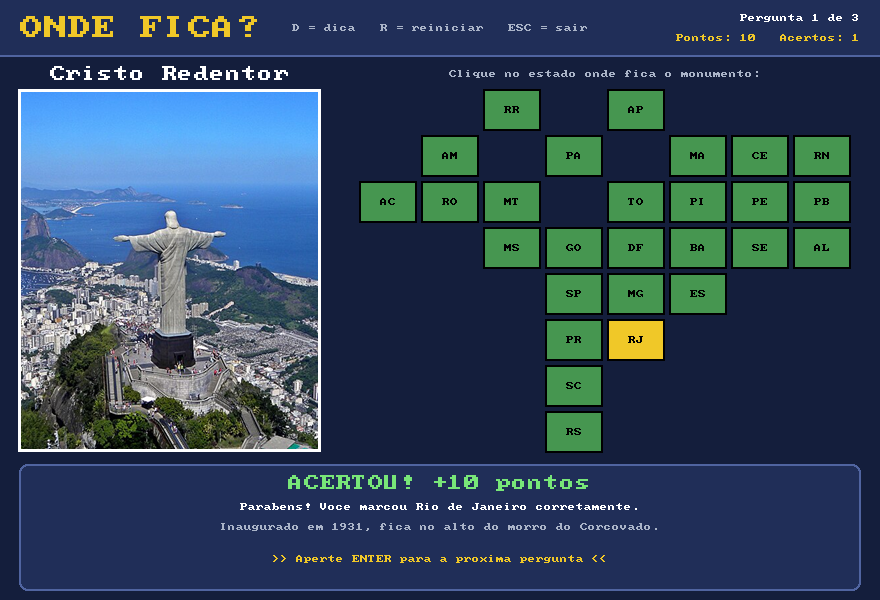
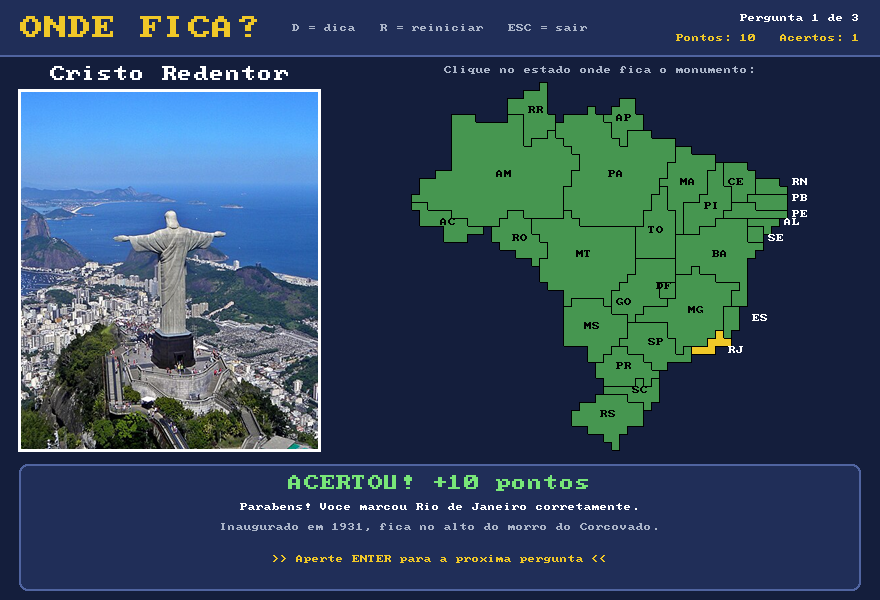
Mapa no formato do Brasil e ajustes na explicacao

Changed region(s): [[0.3989, 0.09, 0.9818, 0.78]]

diff --git a/main.c b/main.c
@@ -10,11 +10,98 @@
 #define TOTAL_PERGUNTAS 3   // quantidade de monumentos (perguntas) do jogo
 #define PONTOS_POR_ACERTO 10
 
-// Mapa
-#define MAPA_X 360
-#define MAPA_Y 90
-#define BLOCO_L 56
-#define BLOCO_A 40
+// ===== MAPA DO BRASIL =====
+// O mapa e uma matriz de letras. Cada letra e um estado e cada letra
+// vira um quadradinho de CELULA x CELULA pixels na tela. O ponto '.' e o mar.
+// A letra de cada estado esta no vetor LETRAS, na mesma posicao do vetor siglas:
+//   A=RR  B=AP  C=AM  D=PA  E=MA  F=CE  G=RN  H=AC  I=RO  J=MT  K=TO  L=PI  M=PE  N=PB
+//   O=MS  P=GO  Q=DF  R=BA  S=SE  T=AL  U=SP  V=MG  W=ES  X=PR  Y=RJ  Z=SC  #=RS
+#define MAPA_LINHAS 46
+#define MAPA_COLUNAS 47
+#define CELULA 8      // tamanho de cada quadradinho em pixels
+#define MAPA_X 412    // canto esquerdo do mapa na tela
+#define MAPA_Y 82     // topo do mapa na tela
+
+char LETRAS[TOTAL + 1] = "ABCDEFGHIJKLMNOPQRSTUVWXYZ#";
+
+char *mapa[MAPA_LINHAS] = {
+    "................A..............................",
+    "..............AAA..............................",
+    "............AAAAA.........BB...................",
+    "............AAAAA.....D..BBB...................",
+    ".....CCC....CCAAAA.DDDDDBBBBB..................",
+    ".....CCCCCCCCCAAAADDDDDDDBBBB..................",
+    ".....CCCCCCCCCAAACDDDDDDDBBDDD.................",
+    ".....CCCCCCCCCACCCCDDDDDDDBDDDDDD..............",
+    ".....CCCCCCCCCCCCCCCDDDDDDDDDDDDDEE............",
+    ".....CCCCCCCCCCCCCCCCDDDDDDDDDDDDEEEEE.........",
+    ".....CCCCCCCCCCCCCCCCDDDDDDDDDDDEEEEEELFFF.....",
+    "...CCCCCCCCCCCCCCCCCDDDDDDDDDDDDEEEEELLFFFF....",
+    ".CCCCCCCCCCCCCCCCCCCDDDDDDDDDDDEEEEEELLFFFFGGG.",
+    ".CCCCCCCCCCCCCCCCCCDDDDDDDDDDDDKEEEEELLLFFFGGGG",
+    "CCCCCCCCCCCCCCCCCCCDDDDDDDDDDDKKEEEELLLLFFNNNNN",
+    "HHCCCCCCCCCCCCCCCCCDDDDDDDDDDDKKEELLLLLLMMMNNNN",
+    ".HHHHCCCCCCCIICCCCCJDDDDDDDDDKKKKELLLLLMMMMMMMM",
+    ".HHHHHHCCCCIIIIJJJJJJDDDDDDDDKKKKELLLLRRRRTTTT.",
+    "....HHHHH.IIIIIJJJJJJJJJJJJJKKKKKELLRRRRRRSST..",
+    "....HHH...IIIIIIJJJJJJJJJJJJKKKKKRRRRRRRRRSS...",
+    "...........IIIIIIJJJJJJJJJJJKKKKKRRRRRRRRRRR...",
+    ".............IIIIJJJJJJJJJJJKKKKKRRRRRRRRRR....",
+    "...............IJJJJJJJJJJJJPPPPPRRRRRRRRR.....",
+    "................JJJJJJJJJJJJPPPPPRRVRRRRRR.....",
+    "................JJJJJJJJJJJPPPPPPVVVVVRRRR.....",
+    ".................JJJJJJJJJPPPPPQQVVVVVVVVR.....",
+    "...................JJJJJJPPPPPPQQVVVVVVVRR.....",
+    "...................JOOOOJPPPPPPPVVVVVVVVRR.....",
+    "...................OOOOOOPPPPVVVVVVVVVVWW......",
+    "...................OOOOOOOOPVVVVVVVVVVVWW......",
+    "...................OOOOOOOOUUUUUVVVVVVVWW......",
+    "...................OOOOOOOOUUUUUVVVVVVYW.......",
+    "...................OOOOOOOUUUUUUUVVVVYYY.......",
+    "......................OOOXXUUUUUUVUYYY.........",
+    "......................OOXXXXXUUUUUU............",
+    ".......................XXXXXXXUU...............",
+    ".......................XXXXXXXX................",
+    "........................XXXXZXZ................",
+    "........................ZZZZZZZ................",
+    ".......................####ZZZZ................",
+    ".....................########Z.................",
+    "....................#########..................",
+    "....................#########..................",
+    "......................#####....................",
+    "........................##.....................",
+    ".........................#.....................",
+};
+
+// Recebe uma letra do mapa e devolve a posicao do estado (0 a 26).
+// Se for mar ('.'), devolve -1.
+int estado_da_letra(char letra)
+{
+    for (int i = 0; i < TOTAL; i++) {
+        if (LETRAS[i] == letra) {
+            return i;
+        }
+    }
+    return -1;
+}
+
+// Recebe uma posicao da tela (x, y), por exemplo onde esta o mouse,
+// e devolve qual estado esta ali. Devolve -1 se for mar ou fora do mapa.
+int estado_na_tela(int x, int y)
+{
+    if (x < MAPA_X || y < MAPA_Y) {
+        return -1; // a esquerda ou acima do mapa
+    }
+
+    // divide pelo tamanho do quadradinho para achar a coluna e a linha da matriz
+    int coluna = (x - MAPA_X) / CELULA;
+    int linha = (y - MAPA_Y) / CELULA;
+
+    if (coluna >= MAPA_COLUNAS || linha >= MAPA_LINHAS) {
+        return -1; // a direita ou abaixo do mapa
+    }
+    return estado_da_letra(mapa[linha][coluna]);
+}
 
 // Escreve um texto MAIOR que o normal, centralizado em x.
 // A fonte embutida do Allegro e bem pequena (8 pixels), entao
@@ -63,18 +150,19 @@ int main()
         "Santa Catarina", "Rio Grande do Sul"
     };
 
-    // coluna e linha de cada estado no mapa (mais ou menos onde fica no Brasil)
-    int coluna[TOTAL] = {
-        2, 4, 1, 3, 5, 6, 7,
-        0, 1, 2, 4, 5, 6, 7,
-        2, 3, 4, 5, 6, 7,
-        3, 4, 5, 3, 4, 3, 3
+    // linha e coluna da matriz onde a sigla de cada estado e escrita.
+    // Nos estados pequenos do litoral a sigla fica no mar, ao lado do estado.
+    int rotulo_linha[TOTAL] = {
+        3, 4, 11, 11, 12, 12, 12,
+        17, 19, 21, 18, 15, 16, 14,
+        30, 27, 25, 21, 19, 17,
+        32, 28, 29, 35, 33, 38, 41
     };
-    int linha[TOTAL] = {
-        0, 0, 1, 1, 1, 1, 1,
-        2, 2, 2, 2, 2, 2, 2,
-        3, 3, 3, 3, 3, 3,
-        4, 4, 4, 5, 5, 6, 7
+    int rotulo_coluna[TOTAL] = {
+        15, 26, 11, 25, 34, 40, 48,
+        4, 13, 21, 30, 37, 48, 48,
+        22, 26, 31, 38, 45, 47,
+        30, 35, 43, 26, 40, 28, 24
     };
 
     // ===== PERGUNTAS =====
@@ -224,30 +312,62 @@ int main()
             al_draw_rectangle(20, 90, 320, 450, branco, 3);
 
             // mapa
-            al_draw_text(fonte, cinza, 605, 70, ALLEGRO_ALIGN_CENTRE,
+            al_draw_text(fonte, cinza, 600, 66, ALLEGRO_ALIGN_CENTRE,
                 "Clique no estado onde fica o monumento:");
+            // qual estado esta embaixo do mouse agora (-1 = nenhum)
+            int estado_mouse = estado_na_tela(mouse_x, mouse_y);
+
+            // percorre a matriz linha por linha, coluna por coluna
+            for (int lin = 0; lin < MAPA_LINHAS; lin++) {
+                for (int col = 0; col < MAPA_COLUNAS; col++) {
+                    char letra = mapa[lin][col];
+                    if (letra == '.') {
+                        continue; // e mar: nao desenha nada
+                    }
+
+                    int i = estado_da_letra(letra);
+                    int x = MAPA_X + col * CELULA;
+                    int y = MAPA_Y + lin * CELULA;
+
+                    ALLEGRO_COLOR cor = al_map_rgb(70, 150, 80); // verde normal
+                    if (escolhido != -1 && i == respostas[pergunta]) {
+                        cor = amarelo;                           // resposta certa
+                    }
+                    else if (i == escolhido) {
+                        cor = al_map_rgb(210, 60, 50);           // escolha errada
+                    }
+                    else if (escolhido == -1 && i == estado_mouse) {
+                        cor = al_map_rgb(130, 210, 140);         // verde claro (mouse em cima)
+                    }
+                    al_draw_filled_rectangle(x, y, x + CELULA, y + CELULA, cor);
+
+                    // fronteira: desenha uma linha escura onde o vizinho
+                    // e outro estado ou o mar (ou onde a matriz acaba)
+                    if (lin == 0 || mapa[lin - 1][col] != letra) {
+                        al_draw_line(x, y, x + CELULA, y, preto, 1);                     // em cima
+                    }
+                    if (lin == MAPA_LINHAS - 1 || mapa[lin + 1][col] != letra) {
+                        al_draw_line(x, y + CELULA, x + CELULA, y + CELULA, preto, 1);   // embaixo
+                    }
+                    if (col == 0 || mapa[lin][col - 1] != letra) {
+                        al_draw_line(x, y, x, y + CELULA, preto, 1);                     // esquerda
+                    }
+                    if (col == MAPA_COLUNAS - 1 || mapa[lin][col + 1] != letra) {
+                        al_draw_line(x + CELULA, y, x + CELULA, y + CELULA, preto, 1);   // direita
+                    }
+                }
+            }
+
+            // escreve a sigla de cada estado
             for (int i = 0; i < TOTAL; i++) {
-                int x = MAPA_X + coluna[i] * (BLOCO_L + 6);
-                int y = MAPA_Y + linha[i] * (BLOCO_A + 6);
-
-                // o mouse esta em cima deste bloco?
-                int mouse_em_cima = mouse_x >= x && mouse_x <= x + BLOCO_L &&
-                                    mouse_y >= y && mouse_y <= y + BLOCO_A;
-
-                ALLEGRO_COLOR cor = al_map_rgb(70, 150, 80); // verde normal
-                if (escolhido != -1 && i == respostas[pergunta]) {
-                    cor = amarelo;                           // resposta certa
+                int x = MAPA_X + rotulo_coluna[i] * CELULA + CELULA / 2;
+                int y = MAPA_Y + rotulo_linha[i] * CELULA;
+                // sigla em cima do estado = preta; sigla no mar = branca
+                ALLEGRO_COLOR cor_sigla = preto;
+                if (rotulo_coluna[i] >= MAPA_COLUNAS || mapa[rotulo_linha[i]][rotulo_coluna[i]] == '.') {
+                    cor_sigla = branco;
                 }
-                else if (i == escolhido) {
-                    cor = al_map_rgb(210, 60, 50);           // escolha errada
-                }
-                else if (escolhido == -1 && mouse_em_cima) {
-                    cor = al_map_rgb(130, 210, 140);         // verde claro (mouse em cima)
-                }
-
-                al_draw_filled_rectangle(x, y, x + BLOCO_L, y + BLOCO_A, cor);
-                al_draw_rectangle(x, y, x + BLOCO_L, y + BLOCO_A, preto, 2);
-                al_draw_text(fonte, preto, x + BLOCO_L / 2, y + BLOCO_A / 2 - 4, ALLEGRO_ALIGN_CENTRE, siglas[i]);
+                al_draw_text(fonte, cor_sigla, x, y, ALLEGRO_ALIGN_CENTRE, siglas[i]);
             }
 
             // painel de mensagens embaixo
@@ -334,20 +454,13 @@ int main()
             }
         }
         else if (evento.type == ALLEGRO_EVENT_MOUSE_AXES) {
-            // o mouse se mexeu: guarda a posicao para pintar o bloco de baixo dele
+            // o mouse se mexeu: guarda a posicao para pintar o estado embaixo dele
             mouse_x = evento.mouse.x;
             mouse_y = evento.mouse.y;
         }
         else if (evento.type == ALLEGRO_EVENT_MOUSE_BUTTON_DOWN && escolhido == -1 && !fim_de_jogo) {
-            // ve em qual bloco o mouse clicou
-            for (int i = 0; i < TOTAL; i++) {
-                int x = MAPA_X + coluna[i] * (BLOCO_L + 6);
-                int y = MAPA_Y + linha[i] * (BLOCO_A + 6);
-                if (evento.mouse.x >= x && evento.mouse.x <= x + BLOCO_L &&
-                    evento.mouse.y >= y && evento.mouse.y <= y + BLOCO_A) {
-                    escolhido = i;
-                }
-            }
+            // ve em qual estado o mouse clicou (-1 se clicou no mar ou fora do mapa)
+            escolhido = estado_na_tela(evento.mouse.x, evento.mouse.y);
 
             // se clicou em um estado, confere a resposta e soma os pontos
             if (escolhido != -1 && escolhido == respostas[pergunta]) {

diff --git a/EXPLICACAO.md b/EXPLICACAO.md
@@ -24,17 +24,19 @@ O `main.c` está dividido em blocos, na ordem em que aparecem:
 | Parte | O que faz |
 |---|---|
 | `#include` | Traz as bibliotecas: `stdio.h` (para `printf` e `snprintf`) e os módulos do Allegro (janela, fonte, desenho de formas e imagens). |
-| `#define` | Cria constantes: tamanho da janela, número de estados (`TOTAL`), número de perguntas (`TOTAL_PERGUNTAS`), pontos por acerto e o tamanho dos blocos do mapa. Se quiser mudar um valor, muda só aqui. |
+| `#define` | Cria constantes: tamanho da janela, número de estados (`TOTAL`), número de perguntas (`TOTAL_PERGUNTAS`), pontos por acerto, o tamanho da matriz do mapa (`MAPA_LINHAS`, `MAPA_COLUNAS`), o tamanho de cada quadradinho (`CELULA`) e a posição do mapa na tela (`MAPA_X`, `MAPA_Y`). Se quiser mudar um valor, muda só aqui. |
+| Mapa (`mapa` e `LETRAS`) | O mapa do Brasil escrito como uma matriz de letras. Cada letra é um estado e o `.` é o mar. `LETRAS` diz qual letra é de qual estado. |
+| Funções `estado_da_letra` e `estado_na_tela` | A primeira transforma uma letra do mapa na posição do estado (0 a 26). A segunda recebe um ponto da tela (por exemplo, onde o mouse está) e diz qual estado está ali. |
 | Função `escrever_grande` | Desenha um texto maior que o normal. A fonte do Allegro é pequena (8 pixels), então a função "estica" o desenho (escala 2, 3 ou 4) e depois volta ao tamanho normal. É usada no título, no nome do monumento e na tela final. |
 | Início do `main` | Liga o Allegro (`al_init`), o teclado, o mouse e os addons. Cria a janela, a fila de eventos e a fonte. |
-| Vetores do mapa | `siglas`, `nomes`, `coluna` e `linha`: guardam a sigla, o nome e a posição de cada um dos 27 blocos do mapa. |
+| Vetores dos estados | `siglas` e `nomes` guardam a sigla e o nome dos 27 estados. `rotulo_linha` e `rotulo_coluna` dizem onde escrever a sigla de cada estado no mapa. |
 | `PERGUNTAS` | Vetores com os dados de cada pergunta: nome do monumento, arquivo da foto, resposta certa, dica e curiosidade. |
 | Carregar fotos | Um laço `for` carrega a foto de cada monumento. Se a foto não existir, o jogo avisa no console e continua. |
 | `VARIAVEIS DO JOGO` | Guardam o estado do jogo: pergunta atual, pontos, acertos, estado escolhido, dica, tela final e posição do mouse. |
 | `while (rodando)` | O laço principal. Cada volta desenha a tela e espera uma ação do jogador. |
 | `CORES USADAS NO JOGO` | Cria as cores (branco, amarelo, verde, vermelho etc.) com `al_map_rgb(vermelho, verde, azul)`. |
 | `TELA FINAL` | Desenhada quando `fim_de_jogo` vale 1: pontuação, acertos, resumo de cada pergunta e mensagem final. |
-| `TELA DA PERGUNTA` | Barra de cima com placar, foto do monumento, mapa e painel de mensagens embaixo. |
+| `TELA DA PERGUNTA` | Barra de cima com placar, foto do monumento, mapa e painel de mensagens embaixo. O mapa é desenhado com dois `for`, um dentro do outro, que passam por todas as posições da matriz. |
 | Tratamento de eventos | Depois de desenhar, `al_wait_for_event` espera o jogador. Um `if / else if` decide o que fazer: fechar, tecla apertada, mouse mexeu ou mouse clicou. |
 | Final do `main` | Libera da memória as fotos, a fonte, a fila e a janela (`al_destroy_...`). |
 
@@ -46,13 +48,16 @@ O `main.c` está dividido em blocos, na ordem em que aparecem:
 |---|---|
 | **Variáveis `int`** | `pontos`, `acertos`, `pergunta`, `escolhido`, `dica`, `fim_de_jogo`, `mouse_x`, `mouse_y`. |
 | **Constantes (`#define`)** | `TOTAL`, `TOTAL_PERGUNTAS`, `PONTOS_POR_ACERTO`, `LARGURA`, `ALTURA`. |
-| **Vetores** | `siglas[27]`, `nomes[27]`, `coluna[27]`, `linha[27]`, `monumentos[3]`, `respostas[3]`, `dicas[3]`, `acertou[3]`, `fotos[3]`. |
+| **Vetores** | `siglas[27]`, `nomes[27]`, `rotulo_linha[27]`, `rotulo_coluna[27]`, `monumentos[3]`, `respostas[3]`, `dicas[3]`, `acertou[3]`, `fotos[3]`. |
+| **Matriz** | O `mapa`: cada linha é um texto e cada letra é uma coluna. `mapa[linha][coluna]` pega uma letra. |
 | **Vetores de texto (`char *`)** | Cada posição guarda um texto, por exemplo `nomes[24]` é `"Rio de Janeiro"`. |
-| **Condicionais (`if / else if / else`)** | Verificar acerto/erro, escolher a cor do bloco, escolher a mensagem final, descobrir qual tecla foi apertada. |
+| **Condicionais (`if / else if / else`)** | Verificar acerto/erro, escolher a cor de cada estado, desenhar as fronteiras, escolher a mensagem final, descobrir qual tecla foi apertada. |
 | **Laço `while`** | O laço principal do jogo (`while (rodando)`), que só para quando `rodando` vira 0. |
-| **Laço `for`** | Percorrer os 27 estados para desenhar o mapa e para descobrir onde o mouse clicou; carregar as 3 fotos; zerar o vetor `acertou` ao reiniciar. |
+| **Laço `for`** | Dois `for` aninhados percorrem a matriz para desenhar o mapa; outro `for` procura a letra no vetor `LETRAS`; carregar as 3 fotos; zerar o vetor `acertou` ao reiniciar. |
 | **Operadores de comparação e lógicos** | `>=`, `<=`, `==`, `!=`, `&&` (e), `\|\|` (ou), `!` (não). |
-| **Função** | `escrever_grande`, que recebe parâmetros e é chamada várias vezes. |
+| **Funções** | `estado_da_letra`, `estado_na_tela` e `escrever_grande`: recebem parâmetros e algumas devolvem um valor com `return`. |
+| **Divisão inteira** | `(x - MAPA_X) / CELULA` descobre a coluna da matriz: em C, dividir `int` por `int` descarta a parte decimal. |
+| **`continue`** | Ao desenhar o mapa, pula as posições que são mar. |
 | **`printf` / `snprintf`** | `printf` escreve aviso no console; `snprintf` monta um texto com números (ex.: `"20 de 30 pontos"`). |
 | **Ponteiros (uso simples)** | Os tipos do Allegro (`ALLEGRO_DISPLAY *`, `ALLEGRO_BITMAP *` etc.). Comparamos com `NULL` para saber se a foto carregou. |
 
@@ -115,65 +120,32 @@ Para **reiniciar**, o jogo volta todas as variáveis ao valor inicial: `pergunta
 
 ## 6. Como o mouse identifica o estado escolhido
 
-Cada estado é um retângulo. A posição dele é calculada pela **coluna** e **linha**:
+O mapa é uma **matriz de letras**. Cada letra vira um quadradinho de 8 × 8 pixels (`CELULA`) na tela. Um pedaço do mapa (Sudeste) fica assim:
 
-```c
-int x = MAPA_X + coluna[i] * (BLOCO_L + 6);
-int y = MAPA_Y + linha[i] * (BLOCO_A + 6);
+```
+OOUUUUUUUVVVVYYY
+OXXUUUUUUVUYYY..
 ```
 
-- `MAPA_X` e `MAPA_Y` são o canto do mapa na tela.
-- `BLOCO_L` e `BLOCO_A` são a largura e a altura de um bloco; o `+ 6` é o espaço entre blocos.
+`U` é São Paulo, `V` é Minas Gerais, `Y` é Rio de Janeiro e `.` é o mar. Por isso o desenho tem o formato do Brasil.
 
-Exemplo com o Rio de Janeiro (posição 24, coluna 4, linha 5):
-`x = 360 + 4 × 62 = 608` e `y = 90 + 5 × 46 = 320`. O bloco vai de (608, 320) até (664, 360).
-
-Quando acontece um clique, um laço `for` testa os 27 blocos. O mouse está dentro de um bloco se estiver **entre a esquerda e a direita** e **entre o topo e a base** dele:
+Para saber qual estado está embaixo do mouse, é só fazer a conta ao contrário: dividir a posição do mouse pelo tamanho do quadradinho.
 
 ```c
-if (evento.mouse.x >= x && evento.mouse.x <= x + BLOCO_L &&
-    evento.mouse.y >= y && evento.mouse.y <= y + BLOCO_A) {
-    escolhido = i;
-}
+int coluna = (x - MAPA_X) / CELULA;
+int linha = (y - MAPA_Y) / CELULA;
+return estado_da_letra(mapa[linha][coluna]);
 ```
 
-Se nenhum bloco combinar, `escolhido` continua `-1` e nada acontece.
+- `MAPA_X` e `MAPA_Y` são o canto do mapa na tela, por isso são subtraídos primeiro.
+- A divisão é inteira, então o resultado é o número da coluna e da linha da matriz.
+- Com a linha e a coluna, `mapa[linha][coluna]` dá a letra, e `estado_da_letra` transforma a letra na posição do estado.
 
-O **destaque verde-claro** usa a mesma conta: quando o mouse se mexe (evento `ALLEGRO_EVENT_MOUSE_AXES`), o jogo guarda a posição em `mouse_x` e `mouse_y` e pinta o bloco que está embaixo dele.
+Exemplo com um clique no Rio de Janeiro, no ponto (712, 342):
+`coluna = (712 − 412) / 8 = 37` e `linha = (342 − 82) / 8 = 32`. A letra em `mapa[32][37]` é `Y`, que é o RJ.
 
----
+Antes da conta, a função confere se o clique está dentro do mapa. Se o clique for no mar ou fora do mapa, ela devolve `-1`, `escolhido` continua `-1` e nada acontece.
 
-## 7. Possíveis perguntas do professor
+O **destaque verde-claro** usa a mesma função: quando o mouse se mexe (evento `ALLEGRO_EVENT_MOUSE_AXES`), o jogo guarda a posição em `mouse_x` e `mouse_y`, descobre o estado embaixo dele e pinta todos os quadradinhos daquele estado.
 
-**Por que vocês usaram vários vetores em vez de uma `struct`?**
-Porque ainda estamos aprendendo o básico. Vetores paralelos (mesma posição = mesma pergunta) são simples de entender e funcionam bem para poucas perguntas.
-
-**O que acontece se clicar fora do mapa?**
-O `for` não encontra nenhum bloco, então `escolhido` continua `-1` e o jogo continua esperando.
-
-**Dá para ganhar pontos clicando várias vezes na mesma pergunta?**
-Não. O clique só é aceito enquanto `escolhido == -1`. Depois da primeira resposta, novos cliques são ignorados até a próxima pergunta.
-
-**Como o jogo sabe que acabou?**
-Quando o jogador aperta `Enter` na última pergunta (`pergunta == TOTAL_PERGUNTAS - 1`), a variável `fim_de_jogo` vira 1 e o laço passa a desenhar a tela final.
-
-**O que é a fila de eventos?**
-É onde o Allegro guarda tudo o que o jogador faz (teclas, cliques, mexer o mouse, fechar a janela). `al_wait_for_event` pega o próximo evento e o `if / else if` decide o que fazer.
-
-**Por que os textos estão sem acento?**
-A fonte embutida do Allegro não mostra bem os acentos, então os textos foram escritos sem eles para não aparecerem símbolos estranhos.
-
-**O que acontece se uma foto não for encontrada?**
-O jogo mostra um aviso no console e desenha um quadro com o nome do arquivo que falta, em vez de fechar.
-
-**Por que usar `#define` para os pontos?**
-Para não espalhar o número 10 pelo código. Se o professor pedir 5 pontos por acerto, basta mudar uma linha.
-
-**Para que serve `al_destroy_...` no final?**
-Para devolver ao sistema a memória usada pela janela, fonte, fila e fotos.
-
-**Como aumentar o tamanho do texto se a fonte é pequena?**
-A função `escrever_grande` usa uma transformação do Allegro que multiplica o tamanho do desenho (escala). Depois ela volta a escala para 1, para o resto da tela não ficar grande.
-
-**O mapa é real?**
-Não. É um mapa esquemático: cada estado é um retângulo colocado mais ou menos na posição dele no Brasil. As fronteiras não são reais.
+As **fronteiras** são linhas pretas desenhadas onde a letra do vizinho (em cima, embaixo, à esquerda ou à direita) é diferente.

diff --git a/README.md b/README.md
@@ -57,12 +57,12 @@ O jogo tem **3 perguntas**, uma para cada monumento:
 ## Como funciona
 
 - **Vetores das perguntas:** cada pergunta ocupa a mesma posição em vários vetores (`monumentos`, `arquivos`, `respostas`, `dicas`, `curiosidades`). A variável `pergunta` diz qual posição está na tela.
-- **Mapa esquemático:** os 26 estados e o Distrito Federal são retângulos com suas siglas, organizados aproximadamente pela posição geográfica. Os blocos **não** representam as fronteiras reais.
-- **Detecção do clique:** a posição de cada bloco é calculada a partir da coluna e da linha do estado. Um laço `for` verifica se o mouse está dentro de algum bloco; se estiver, aquele é o estado escolhido.
+- **Mapa do Brasil:** o mapa é uma matriz de letras no código, em que cada letra é um estado e o `.` é o mar. Cada letra vira um quadradinho na tela, formando o contorno do Brasil com os 26 estados e o Distrito Federal. As fronteiras são simplificadas, e o DF foi um pouco aumentado para dar para clicar.
+- **Detecção do clique:** a posição do mouse é dividida pelo tamanho do quadradinho, o que dá a linha e a coluna da matriz. A letra nessa posição diz qual estado foi clicado. Clicar no mar não faz nada.
 - **Pontuação:** se o estado clicado for igual à resposta da pergunta, o jogo soma 10 em `pontos` e 1 em `acertos`.
 - **Fotos:** cada monumento tem um arquivo de imagem na mesma pasta do `main.c`. Se uma foto não for encontrada, o jogo **não fecha**: ele mostra um quadro com o nome do arquivo que falta.
 
-Todo o código está em um único arquivo, `main.c`. A explicação detalhada para a apresentação está em [`EXPLICACAO.md`](EXPLICACAO.md).
+Todo o código está em um único arquivo, `main.c`. A explicação do código está em [`EXPLICACAO.md`](EXPLICACAO.md).
 
 ## Como executar
 
